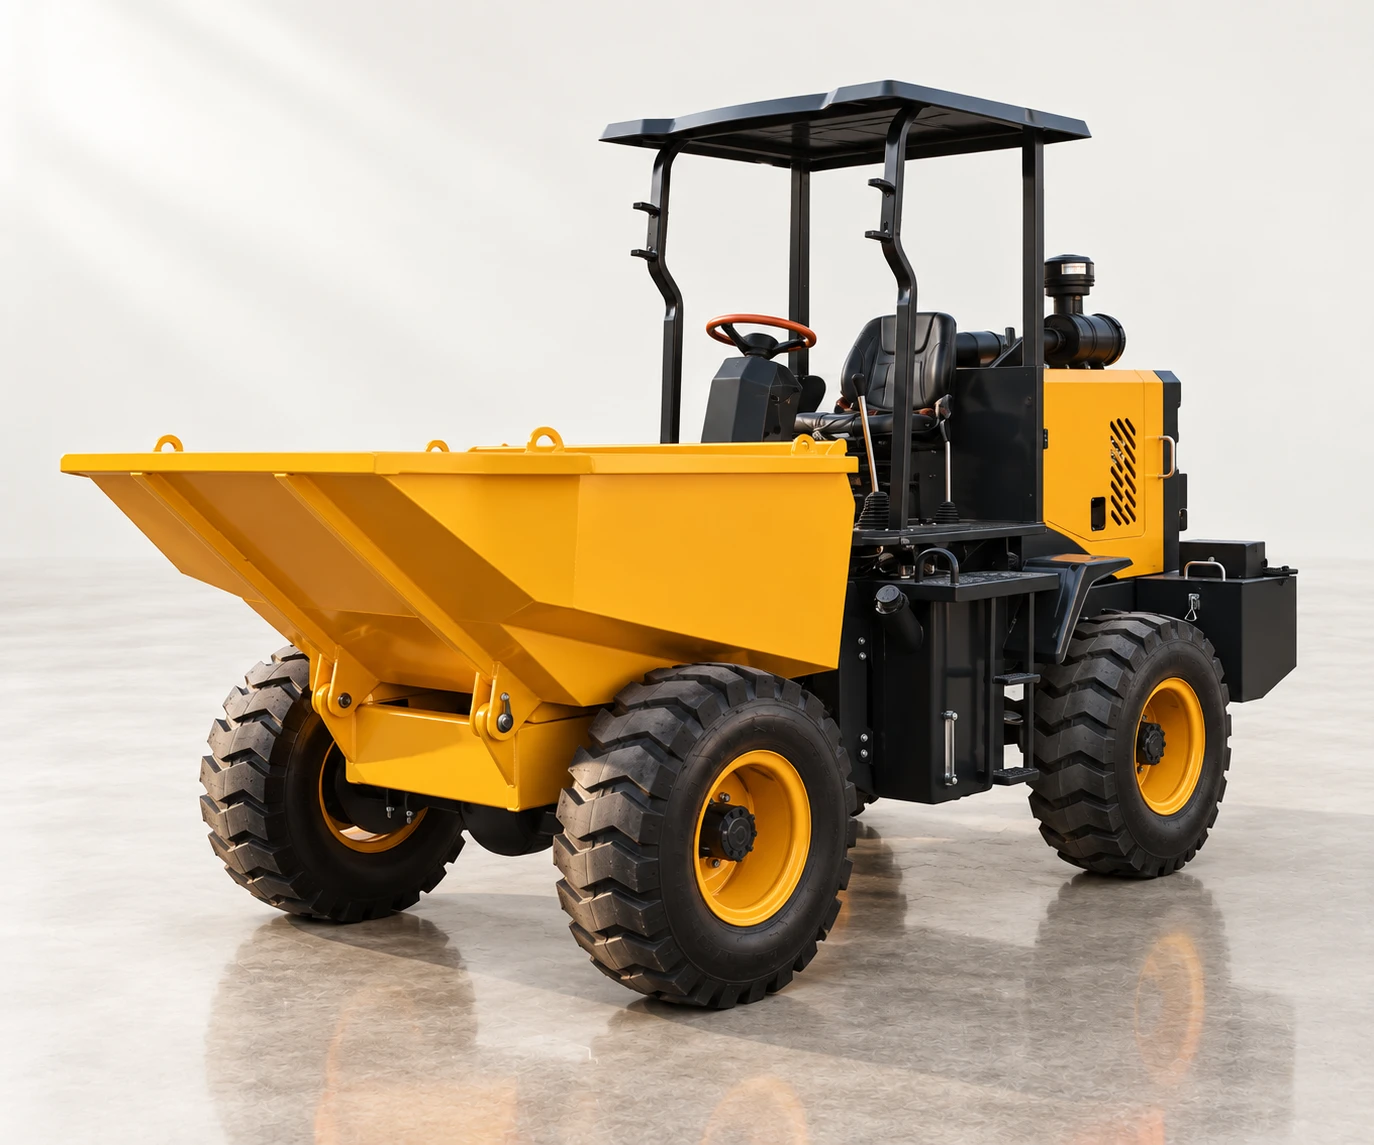
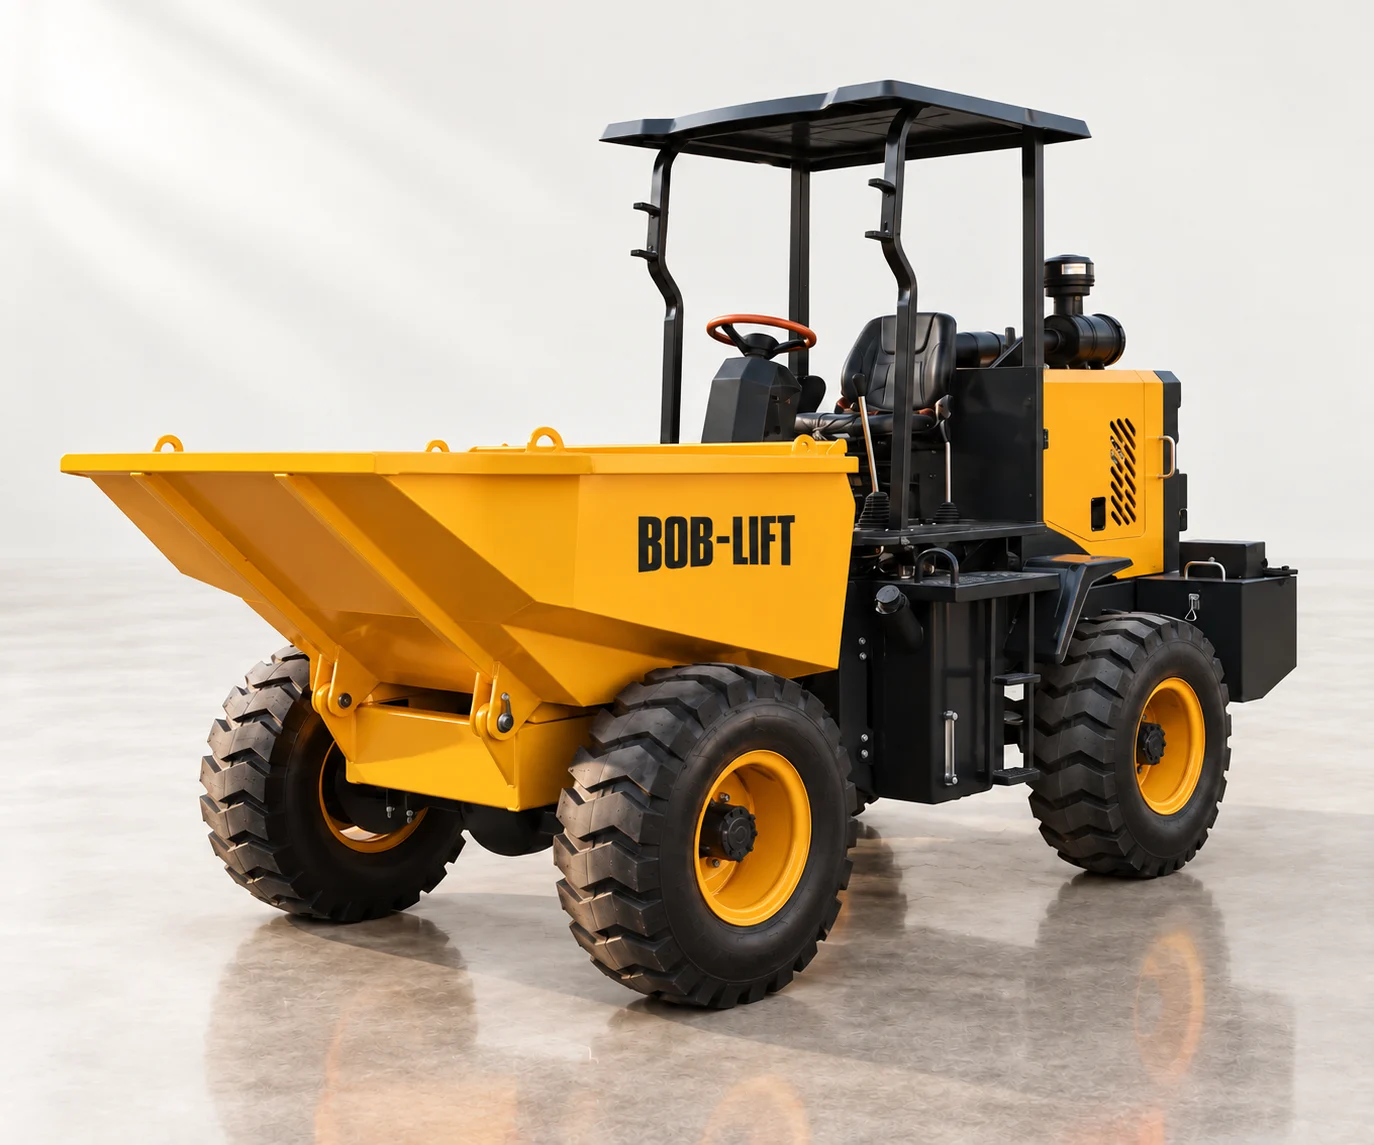
Dumper range card: restore the BOB-LIFT lettering on the skip, as on the FY30 photo
Claude-Session: https://claude.ai/code/session_01B1KivP6voKQ83BUofWUxcE

diff --git a/docs/asset-sources.md b/docs/asset-sources.md
@@ -73,3 +73,7 @@ codex-image（gpt-image-2.5-sunburst）改图，参考图两张：FY30 实拍 `a
 ## 产品目录 PDF（`assets/downloads/boblift-compact-equipment-catalogue.pdf`）
 
 2026-10-06 重做，替换原先 ImageMagick 拼成的无品牌供应商画册（纯图片、无文本层、含本站不卖的型号）。新版 27 页 A4：文本层可检索，带文档属性、书签、Tagged PDF 与图片替代文字，每款产品页有二维码和链接指向线上产品页。参数取自线上 18 款 `_bl_record`；图片全部为实拍（主题产品图、`assets/images/about/` 工厂照片、Mac `工作/滑移装载机(1)/照片/红色 360-460 站/` 原图、翻斗车画册 FY30 厂区图）。BL-T390-C / BL-T490-C 暂无实拍，页内放轮式 S390-C / S490-C 并注明。生成脚本与预览在项目共享文件夹 `bobliftloader/catalog-pdf/`。
+
+## 翻斗车系列卡补 BOB-LIFT 字样（2026-10-06）
+
+`assets/images/range-dumper-studio.webp`（1374 × 1145，首页翻斗车系列卡、产品总览、顶部菜单共用）原版按旧提示词去掉了车斗上的 BOB-LIFT 字样，与实拍不符。codex-image（gpt-image-2.5-sunburst）以原图和 FY30 实拍 `assets/images/products/3-ton-mini-dumper.webp` 为参考改图，只在车斗朝向镜头的侧面加上 BOB-LIFT，字体、颜色、位置照实拍，其余不变；放大检查字母无变形。新规则：参考原图有自家 logo 时保留，不再要求去掉。
